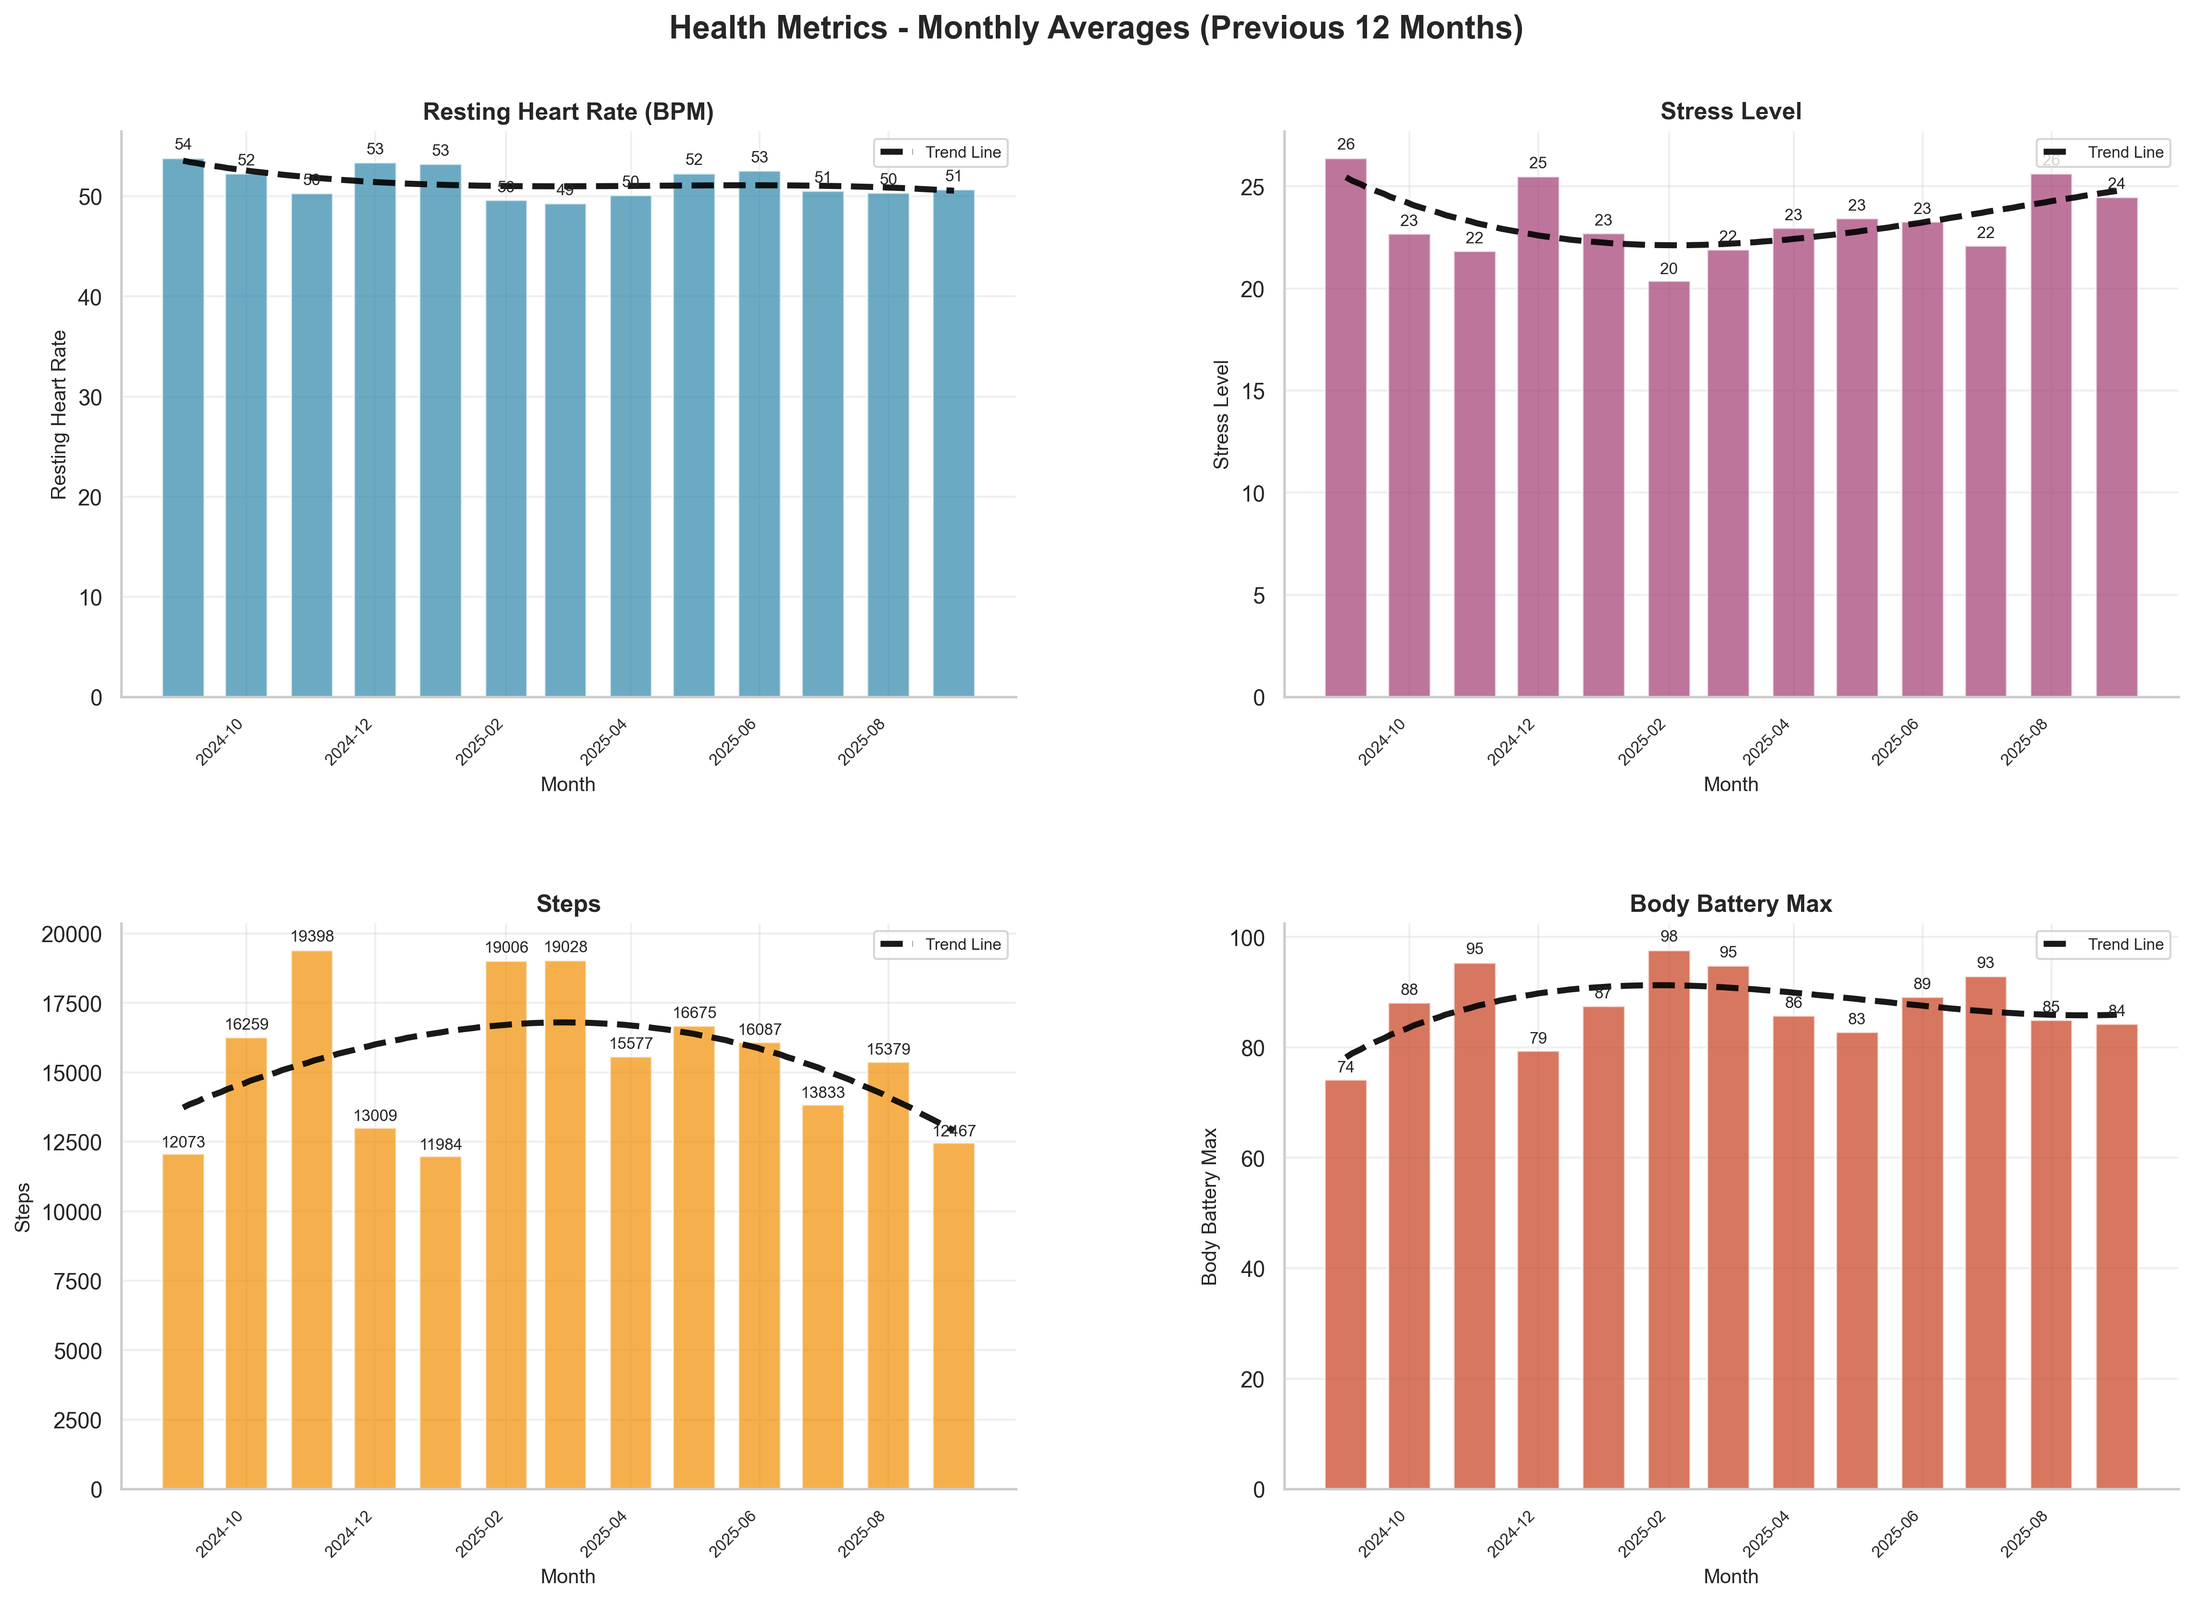
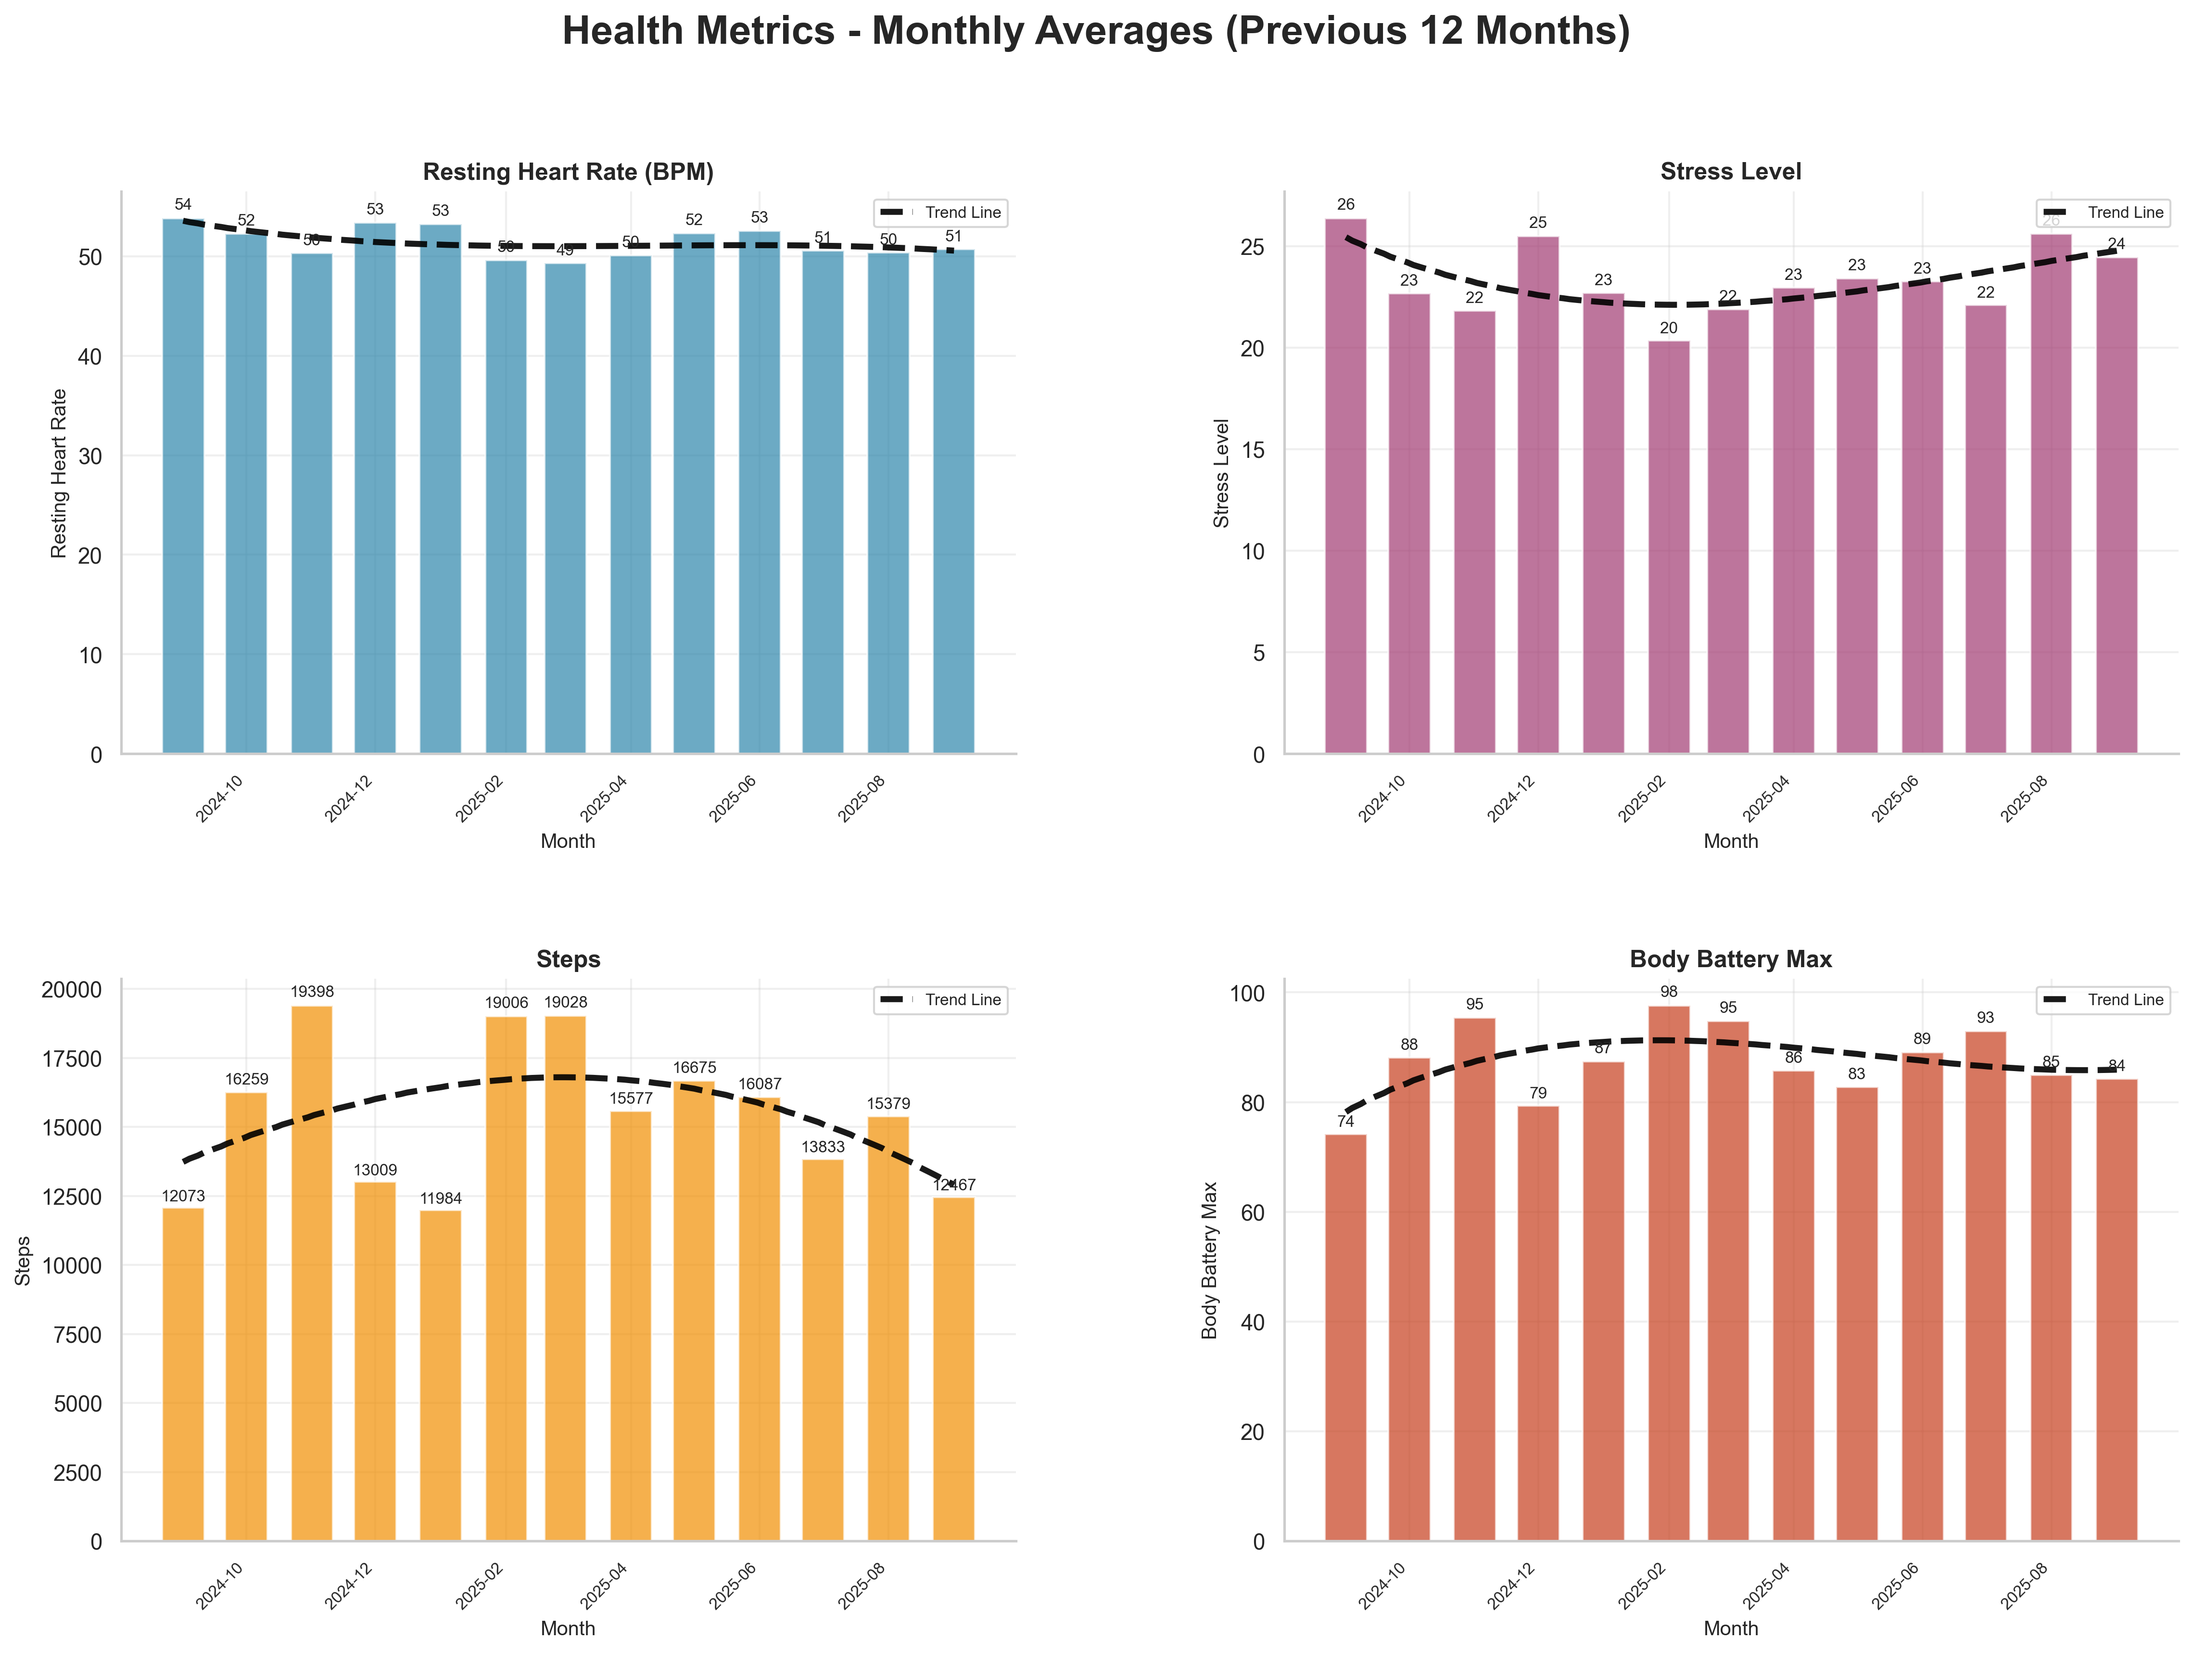
Update titles

diff --git a/notebooks/average_sleep_score_per_day.py b/notebooks/average_sleep_score_per_day.py
@@ -27,7 +27,7 @@ quarters = {
 }
 
 # Day names in order (Monday to Sunday)
-day_names = ['Monday', 'Tuesday', 'Wednesday', 'Thursday', 'Friday', 'Saturday', 'Sunday']
+day_names = ['Mon', 'Tue', 'Wed', 'Thu', 'Fri', 'Sat', 'Sun']
 
 # Initialize data structure
 quarter_data = {}
@@ -99,36 +99,37 @@ for quarter in ['Q1', 'Q2', 'Q3', 'Q4']:
         quarter_labels.append(quarter)
 
 # Create DataFrame
-columns = day_names + ['Weekly Average']
+columns = day_names + ['Avg']
 df = pd.DataFrame(df_data, index=quarter_labels, columns=columns)
 
 print("DataFrame created:")
 print(df)
 
 # Create the heatmap
-plt.figure(figsize=(12, 8))
+plt.figure(figsize=(12, 4))  # Adjusted figure size for abbreviated day names
 
 # Create custom colormap
 cmap = sns.cm.rocket_r
 
-# Create the heatmap
-ax = sns.heatmap(df, 
-                 annot=True, 
-                 fmt='.1f', 
-                 cmap=cmap,
-                 cbar_kws={'label': 'Average Sleep Score'},
-                 linewidths=0.5,
-                 linecolor='white',
-                 xticklabels=columns,
-                 yticklabels=True)
+# # Create the heatm
+ax = sns.heatmap(df,
+                    xticklabels=columns,
+                    yticklabels=True,
+                    annot=True,
+                    fmt='.1f',
+                    cmap='YlOrRd',
+                    cbar_kws={'label': 'Average Sleep Score'},
+                    linewidths=0.5,
+                    square=True,  # Make cells square
+                    cbar=True)
 
 # Customize the plot
-plt.title('Average Sleep Score per Day of Week by Quarter (2025)', fontsize=16, fontweight='bold', pad=40)
-plt.xlabel('Day of Week', fontsize=12, fontweight='bold')
-plt.ylabel('Quarter', fontsize=12, fontweight='bold')
+plt.title('Average Sleep Score per Day of Week by Quarter (2025)', fontsize=16, fontweight='bold', pad=20)
+plt.xlabel('Day of Week', fontsize=14)
+plt.ylabel('Quarter', fontsize=14)
 
-# Rotate x-axis labels for better readability
-plt.xticks(rotation=90, ha='center')
+# Set horizontal x-axis labels
+plt.xticks(rotation=0, ha='center')
 
 # Adjust layout to prevent label cutoff
 plt.tight_layout()

diff --git a/notebooks/stress_quarterly_analysis.py b/notebooks/stress_quarterly_analysis.py
@@ -97,14 +97,12 @@ def create_quarterly_stress_heatmap():
         for day_values in quarter_stress_data.values():
             all_quarter_values.extend(day_values)
         
-        if all_quarter_values:
+        if all_quarter_values:  # Only include quarters that have data
             quarter_avg = np.mean(all_quarter_values)
             quarter_values.append(quarter_avg)
-        else:
-            quarter_values.append(np.nan)
-        
-        heatmap_matrix.append(quarter_values)
-        quarter_labels.append(quarter_info['name'])
+            # Only add to matrix if there's data
+            heatmap_matrix.append(quarter_values)
+            quarter_labels.append(quarter_info['name'])
         
         # Print summary for this quarter
         valid_values = [v for v in quarter_values[:-1] if not np.isnan(v)]
@@ -121,8 +119,11 @@ def create_quarterly_stress_heatmap():
     column_labels = day_names + ['Avg']
     
     # Create the heatmap
-    fig_height = max(8, len(quarters) * 1.5)
-    plt.figure(figsize=(12, fig_height))
+    # Calculate figure size to maintain square cells (8 columns including average)
+    cell_size = 1.5  # Size of each cell in inches
+    fig_width = cell_size * 8  # 7 days + 1 average column
+    fig_height = cell_size * len(quarter_labels)
+    plt.figure(figsize=(fig_width, fig_height))
     
     # Create heatmap
     ax = sns.heatmap(heatmap_array,
@@ -133,7 +134,7 @@ def create_quarterly_stress_heatmap():
                      cmap='YlOrRd',
                      cbar_kws={'label': 'Average Stress Level'},
                      linewidths=0.5,
-                     square=False,
+                     square=True,  # Make cells square
                      cbar=True,
                      mask=np.isnan(heatmap_array))
     

diff --git a/notebooks/weekly_intensity_minutes.py b/notebooks/weekly_intensity_minutes.py
@@ -65,7 +65,7 @@ plt.axhline(y=800, color='r', linestyle='--', label='Weekly Target (800)')
 plt.axhline(y=average_weekly_intensity, color='g', linestyle='--', label=f'Weekly Average ({average_weekly_intensity:.0f})')
 
 # Format plot
-plt.title('Weekly Intensity Minutes for 2025')
+plt.title('Weekly Intensity Minutes for 2025', fontsize=20, fontweight='bold', pad=20)
 plt.xlabel('Week Ending')
 plt.ylabel('Total Intensity Minutes')
 plt.xticks(rotation=45, ha='right')

diff --git a/notebooks/correlation_matrix_garmin.py b/notebooks/correlation_matrix_garmin.py
@@ -182,7 +182,7 @@ def create_correlation_matrix():
                 cbar_kws={"shrink": .8},
                 annot_kws={"size": 8})
 
-    plt.title('Garmin Health Metrics Correlation Matrix\nQ3 2025 Analysis', fontsize=16, pad=20)
+    plt.title('Garmin Health Metrics Correlation Matrix\nQ3 2025 Analysis', fontsize=16, fontweight='bold', pad=20)
     
     # Rotate labels for better readability
     plt.xticks(rotation=45, ha='right', fontsize=11)

diff --git a/notebooks/summary_quartet.py b/notebooks/summary_quartet.py
@@ -102,7 +102,7 @@ def create_quartet_map():
     # Create the quartet map
     fig, axes = plt.subplots(2, 2, figsize=(16, 12))
     fig.suptitle('Health Metrics - Monthly Averages (Previous 12 Months)', 
-                 fontsize=16, fontweight='bold', y=0.95)
+                 fontsize=20, fontweight='bold')
     
     # Define colors for each subplot
     colors = ['#2E86AB', '#A23B72', '#F18F01', '#C73E1D']

diff --git a/notebooks/average_resting_hr_per_month.py b/notebooks/average_resting_hr_per_month.py
@@ -76,7 +76,7 @@ plt.errorbar(month_dates, monthly_averages, yerr=monthly_stds,
 
 # Customize the plot
 plt.title('Average Resting Heart Rate per Month (2019-Present)', 
-          fontsize=16, fontweight='bold', pad=20)
+          fontsize=20, fontweight='bold', pad=20)
 plt.xlabel('Month', fontsize=12, fontweight='bold')
 plt.ylabel('Resting Heart Rate (BPM)', fontsize=12, fontweight='bold')
 
